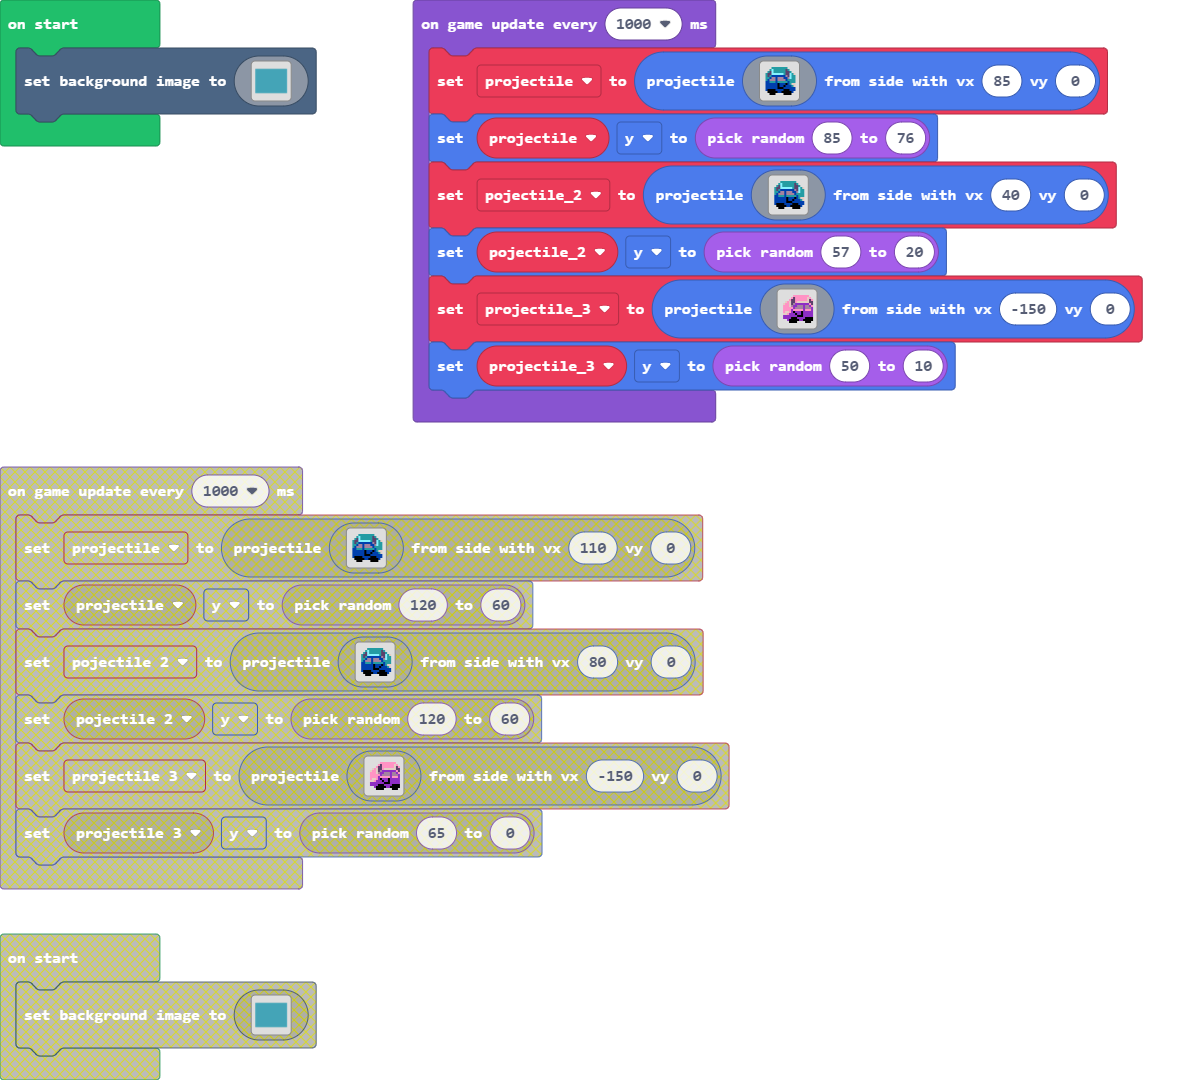
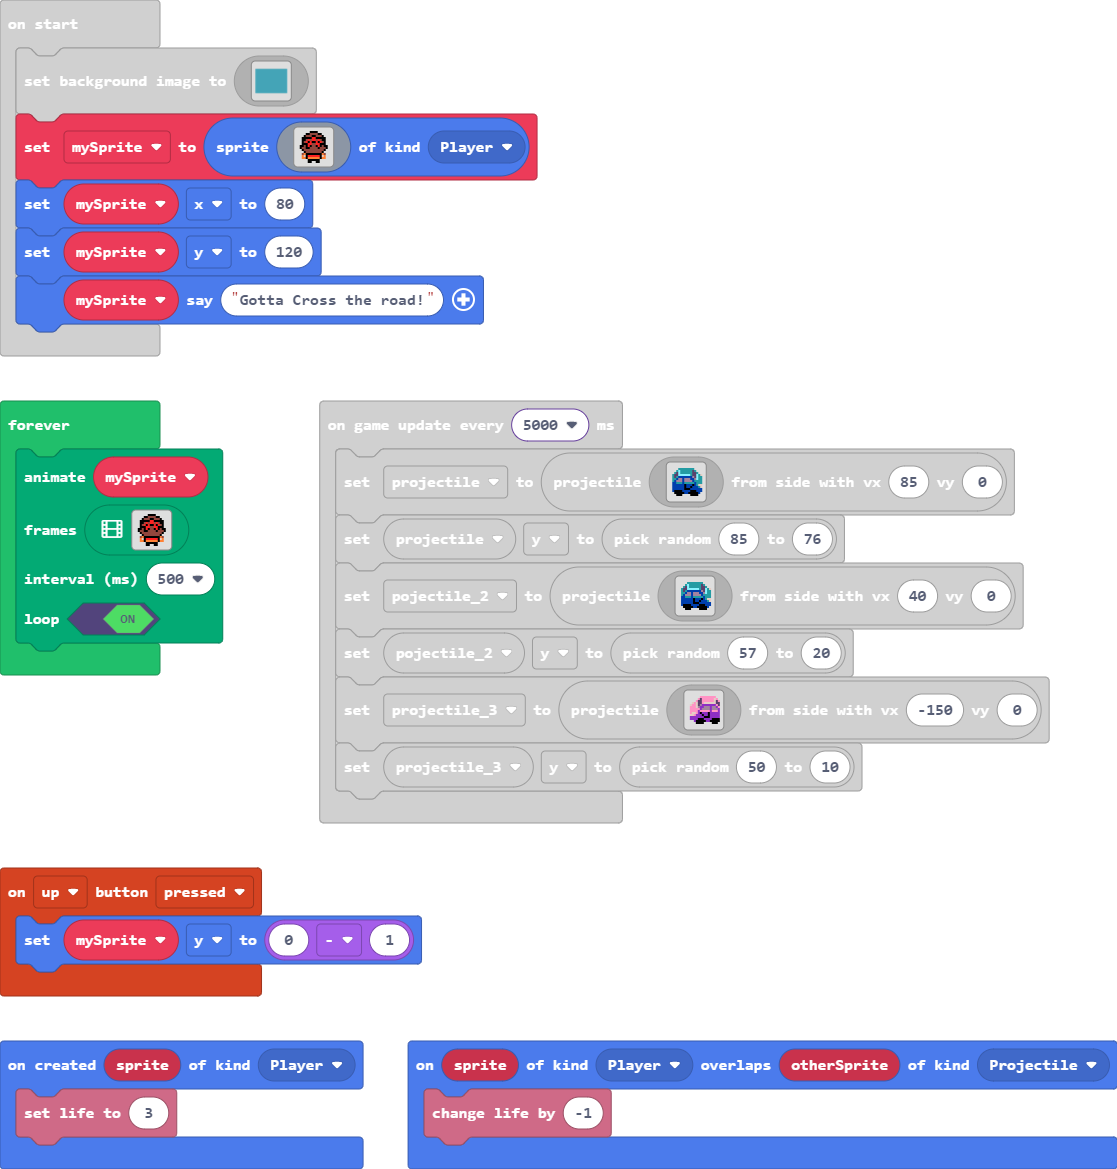
makes game better, yet still unplayable.

diff --git a/main.ts b/main.ts
@@ -1,6 +1,16 @@
+controller.up.onEvent(ControllerButtonEvent.Pressed, function () {
+    mySprite.y = 0 - 1
+})
+sprites.onOverlap(SpriteKind.Player, SpriteKind.Projectile, function (sprite, otherSprite) {
+    info.changeLifeBy(-1)
+})
+sprites.onCreated(SpriteKind.Player, function (sprite) {
+    info.setLife(3)
+})
 let projectile_3: Sprite = null
 let pojectile_2: Sprite = null
 let projectile: Sprite = null
+let mySprite: Sprite = null
 scene.setBackgroundImage(img`
     6666666666666666666666666666666666666666666666666666666666666666666666666666666666666666666666666666666666666666666666666666666666666666666666666666666666666666
     6666666666666666666666666666666666666666666666666666666666666666666666666666666666666666666666666666666666666666666666666666666666666666666666666666666666666666
@@ -123,7 +133,28 @@ scene.setBackgroundImage(img`
     6666666666666666666666666666666666666666666666666666666666666666666666666666666666666666666666666666666666666666666666666666666666666666666666666666666666666666
     6666666666666666666666666666666666666666666666666666666666666666666666666666666666666666666666666666666666666666666666666666666666666666666666666666666666666666
     `)
-game.onUpdateInterval(1000, function () {
+mySprite = sprites.create(img`
+    . . . . . . f f f f . . . . . . 
+    . . . . f f e e e e f f . . . . 
+    . . . f e e e f f e e e f . . . 
+    . . f f f f f 2 2 f f f f f . . 
+    . . f f e 2 e 2 2 e 2 e f f . . 
+    . . f e 2 f 2 f f 2 f 2 e f . . 
+    . . f f f 2 2 e e 2 2 f f f . . 
+    . f f e f 2 f e e f 2 f e f f . 
+    . f e e f f e e e e f e e e f . 
+    . . f e e e e e e e e e e f . . 
+    . . . f e e e e e e e e f . . . 
+    . . e 4 f f f f f f f f 4 e . . 
+    . . 4 d f 2 2 2 2 2 2 f d 4 . . 
+    . . 4 4 f 4 4 4 4 4 4 f 4 4 . . 
+    . . . . . f f f f f f . . . . . 
+    . . . . . f f . . f f . . . . . 
+    `, SpriteKind.Player)
+mySprite.x = 80
+mySprite.y = 120
+mySprite.say("Gotta Cross the road!")
+game.onUpdateInterval(5000, function () {
     projectile = sprites.createProjectileFromSide(img`
         . . . . . . . . . . . . . . . . 
         . . . . 6 6 6 6 6 6 6 6 . . . . 
@@ -181,4 +212,80 @@ game.onUpdateInterval(1000, function () {
         . . . . . . . . . . . . . . . . 
         `, -150, 0)
     projectile_3.y = randint(50, 10)
+})
+forever(function () {
+    animation.runImageAnimation(
+    mySprite,
+    [img`
+        . . . . . . f f f f . . . . . . 
+        . . . . f f e e e e f f . . . . 
+        . . . f e e e f f e e e f . . . 
+        . . f f f f f 2 2 f f f f f . . 
+        . . f f e 2 e 2 2 e 2 e f f . . 
+        . . f e 2 f 2 f f 2 f 2 e f . . 
+        . . f f f 2 2 e e 2 2 f f f . . 
+        . f f e f 2 f e e f 2 f e f f . 
+        . f e e f f e e e e f e e e f . 
+        . . f e e e e e e e e e e f . . 
+        . . . f e e e e e e e e f . . . 
+        . . e 4 f f f f f f f f 4 e . . 
+        . . 4 d f 2 2 2 2 2 2 f d 4 . . 
+        . . 4 4 f 4 4 4 4 4 4 f 4 4 . . 
+        . . . . . f f f f f f . . . . . 
+        . . . . . f f . . f f . . . . . 
+        `,img`
+        . . . . . . . . . . . . . . . . 
+        . . . . . . f f f f . . . . . . 
+        . . . . f f e e e e f f . . . . 
+        . . . f e e e f f e e e f . . . 
+        . . . f f f f 2 2 f f f f . . . 
+        . . f f e 2 e 2 2 e 2 e f f . . 
+        . . f e 2 f 2 f f f 2 f e f . . 
+        . . f f f 2 f e e 2 2 f f f . . 
+        . . f e 2 f f e e 2 f e e f . . 
+        . f f e f f e e e f e e e f f . 
+        . f f e e e e e e e e e e f f . 
+        . . . f e e e e e e e e f . . . 
+        . . . e f f f f f f f f 4 e . . 
+        . . . 4 f 2 2 2 2 2 e d d 4 . . 
+        . . . e f f f f f f e e 4 . . . 
+        . . . . f f f . . . . . . . . . 
+        `,img`
+        . . . . . . f f f f . . . . . . 
+        . . . . f f e e e e f f . . . . 
+        . . . f e e e f f e e e f . . . 
+        . . f f f f f 2 2 f f f f f . . 
+        . . f f e 2 e 2 2 e 2 e f f . . 
+        . . f e 2 f 2 f f 2 f 2 e f . . 
+        . . f f f 2 2 e e 2 2 f f f . . 
+        . f f e f 2 f e e f 2 f e f f . 
+        . f e e f f e e e e f e e e f . 
+        . . f e e e e e e e e e e f . . 
+        . . . f e e e e e e e e f . . . 
+        . . e 4 f f f f f f f f 4 e . . 
+        . . 4 d f 2 2 2 2 2 2 f d 4 . . 
+        . . 4 4 f 4 4 4 4 4 4 f 4 4 . . 
+        . . . . . f f f f f f . . . . . 
+        . . . . . f f . . f f . . . . . 
+        `,img`
+        . . . . . . . . . . . . . . . . 
+        . . . . . . f f f f . . . . . . 
+        . . . . f f e e e e f f . . . . 
+        . . . f e e e f f e e e f . . . 
+        . . . f f f f 2 2 f f f f . . . 
+        . . f f e 2 e 2 2 e 2 e f f . . 
+        . . f e f 2 f f f 2 f 2 e f . . 
+        . . f f f 2 2 e e f 2 f f f . . 
+        . . f e e f 2 e e f f 2 e f . . 
+        . f f e e e f e e e f f e f f . 
+        . f f e e e e e e e e e e f f . 
+        . . . f e e e e e e e e f . . . 
+        . . e 4 f f f f f f f f e . . . 
+        . . 4 d d e 2 2 2 2 2 f 4 . . . 
+        . . . 4 e e f f f f f f e . . . 
+        . . . . . . . . . f f f . . . . 
+        `],
+    500,
+    true
+    )
 })
